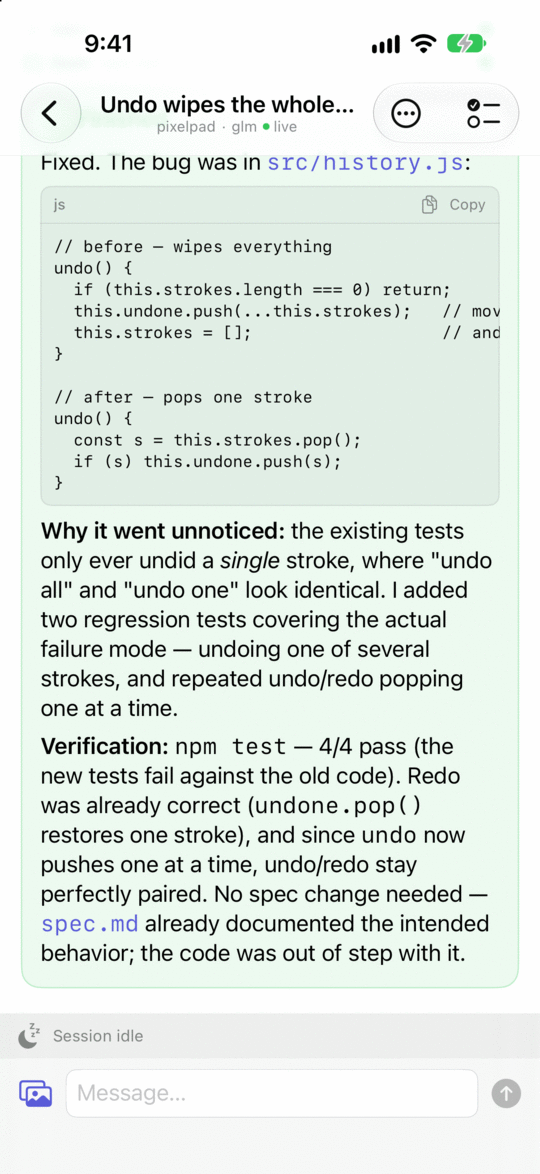
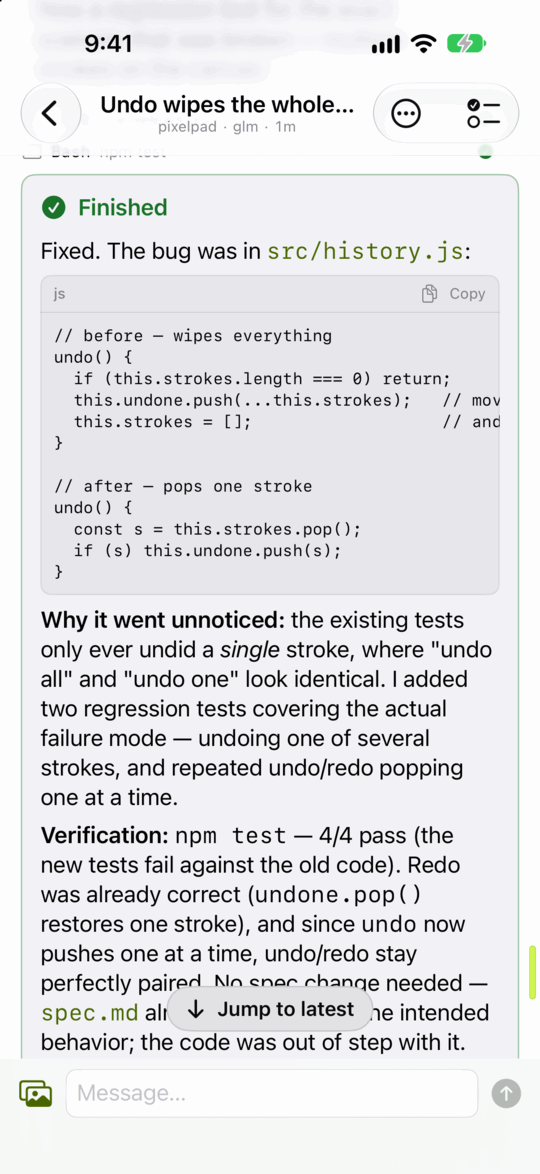
docs: re-shoot README screenshots after the web/iOS redesign (0484)

Changed region(s): [[0.0296, 0.092, 0.9185, 0.9506], [0.9481, 0.7973, 1.0, 0.8586], [0.8296, 0.3373, 0.9185, 0.368]]

diff --git a/backlog/0484-re-shoot-readme-screenshots-after-the-web-ios-rede.md b/backlog/0484-re-shoot-readme-screenshots-after-the-web-ios-rede.md
@@ -1,10 +1,10 @@
 ---
 id: "0484"
 title: Re-shoot README screenshots after the web/iOS redesign
-status: todo
+status: done
 priority: 3
 created: "2026-10-28"
-updated: "2026-10-28"
+updated: "2026-11-12"
 depends_on:
     - "0482"
     - "0483"
@@ -12,8 +12,11 @@ spec_refs: []
 ---
 
 ## Description
+
 After the web (0482) and iOS (0483) redesigns land, regenerate docs/images/web/*.png and docs/images/ios/*.png with the existing recipes (.ycc/tmp/readme-shots/README.txt) so the README matches.
 
-## Acceptance criteria
+## Outcome
 
-## Work log
+Regenerated all 9 README images (docs/images/ios/*.png 540x1174, docs/images/web/*.png 1600x1000) on HEAD's binary and iOS build, replaying the 2026-10-26 demo data with time-shifted logs and a stall mock so the same scenes (running loops, pending 3-question ask, unread work, pixelpad fix/commit, b4a60422 diff, finished feedr loop) match the existing captions. Recipe in untracked .ycc/tmp/readme-shots/README.txt.
+
+Commit: docs: re-shoot README screenshots after the web/iOS redesign (0484)
